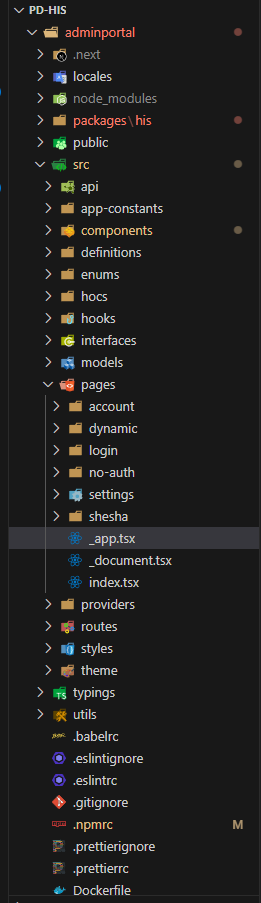
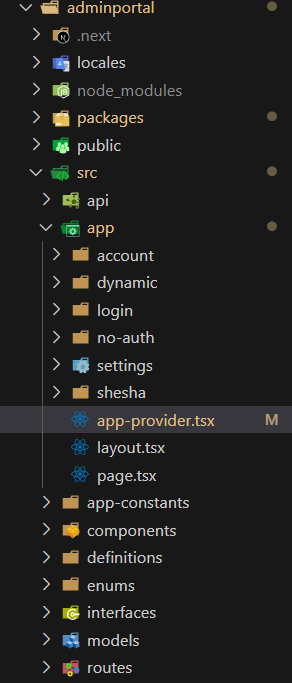
refactor: custom-components modified

diff --git a/docs/front-end-basics/how-to-guides/custom-components.md b/docs/front-end-basics/how-to-guides/custom-components.md
@@ -1,5 +1,7 @@
 # Custom Components
 
+## Overview
+
 The Shesha Form Builder is a powerful feature that includes a variety of form components to cover a wide range of common scenarios. However, given the diversity of use cases, it's not feasible to address all of them. Therefore, Shesha provides an option to develop custom components for any unique requirements. These custom components can be seamlessly integrated withing the Form Builder, enabling you to easily add them to any form through the drag-and-drop interface.
 
 ## Background
@@ -10,6 +12,37 @@ Before diving into the code, we need to briefly mention a few topic areas.
 
   ![Image](./images/figure1.png)
   ![Image](./images/figure2.png)
+
+``` ts
+{
+  "components": [
+    {
+      "id": "LAuoz8VcEzPdMTc5zFK-n",
+      "type": "rate",
+      "propertyName": "ratings",
+      "componentName": "ratings",
+      "label": "Ratings",
+      "labelAlign": "right",
+      "parentId": "root",
+      "hidden": false,
+      "isDynamic": false,
+      "version": 1,
+      "count": 8,
+      "settingsValidationErrors": []
+    }
+  ],
+  "formSettings": {
+    "layout": "horizontal",
+    "colon": true,
+    "labelCol": {
+      "span": 6
+    },
+    "wrapperCol": {
+      "span": 18
+    }
+  }
+}
+```
 
 > **NOTE**: It is important to note that in the JSON schema in the above image, two properties are depicted (`components`, `formSettings`). Also take note that the components property is an `array` and if we had more than one component in the UI form it would be shown in this array.
 
@@ -23,9 +56,29 @@ Before diving into the code, we need to briefly mention a few topic areas.
   _Above image shows the `packages` folder in the root of the `adminportal` directory_
 
 - Inside the `packages` directory we can see that only one module exists, namely the `his` module.
-- The `index.ts` file inside of the `src` folder is the entry point to the packaged modules, meaning that whatever is exposed here can be imported from this module.
+- The `hisApplicationPlugin.tsx` file inside of the `src/providers` folder is where components are exposed. `HisApplicationPlugin` will need to be wrapped around the main application's provider.
 
   ![Image](./images/figure4.png)
+
+``` ts
+import React, { FC, PropsWithChildren, useEffect } from 'react';
+import { useSheshaApplication } from '@shesha-io/reactjs';
+import { allComponents } from '@/designer';
+
+export interface HisApplicationPluginProps {}
+
+export const HIS_PLUGIN_NAME = 'His-Plugnin';
+
+export const HisApplicationPlugin: FC<PropsWithChildren<HisApplicationPluginProps>> = ({ children }) => {
+  const { registerFormDesignerComponents } = useSheshaApplication();
+
+  useEffect(() => {
+    registerFormDesignerComponents(HIS_PLUGIN_NAME, allComponents);
+  }, []);
+
+  return <>{children}</>;
+};
+```
 
 - By opening the `allComponents` file as shown in the image below, we can see the list of exposed components to the Shesha Form Builder.
   <!-- figure 5 -->
@@ -40,6 +93,31 @@ Before diving into the code, we need to briefly mention a few topic areas.
   <!-- figure 5 -->
   ![Image](./images/figure5.png)
 
+``` ts
+import { IToolboxComponentGroup } from '@shesha-io/reactjs';
+import CalendarComponent from 'components/global/bookingCalendar/formComponent';
+import FacilityContextPickerComponent from 'components/global/facilityContextPicker/formComponent';
+import StatsListComponent from 'components/global/statsList/formComponent';
+import TableFormComponent from 'components/global/tableBuilder/formComponent';
+import UrinalysisComponent from 'components/global/urinalysis';
+import SampleComponent from 'components/global/urinalysis';
+
+export const allComponents: IToolboxComponentGroup[] = [
+  {
+    name: 'HIS Components',
+    components: [
+      CalendarComponent,
+      FacilityContextPickerComponent,
+      StatsListComponent,
+      TableFormComponent,
+      UrinalysisComponent,
+      SampleComponent,
+    ],
+    visible: true,
+  },
+];
+```
+
 _The square bracket after the interface means it is an array of the [IToolboxComponentGroup](https://github.com/shesha-io/shesha-framework/blob/d4959da52f3285067f3269d7f9a14a0259281afb/shesha-reactjs/src/interfaces/formDesigner.ts) interface._
 
 ## Implementation
@@ -48,6 +126,55 @@ _The square bracket after the interface means it is an array of the [IToolboxCom
   <!-- figure 6 -->
 
   ![Image](./images/figure6.png)
+
+``` ts
+import { DingtalkOutlined } from '@ant-design/icons';
+import {
+  ComponentFactoryArguements,
+  ConfigurableFormItem,
+  IToolboxComponent,
+  validateConfigurableComponentSettings,
+} from '@shesha-io/reactjs';
+import React from 'react';
+import { settingsForm } from './settings';
+
+const SampleComponent: IToolboxComponent<ISampleComponentProps> = {
+  type: 'sampleComponent',
+  name: 'Sample Component',
+  icon: <DingtalkOutlined />,
+  Factory: ({ model }: ComponentFactoryArguements<ISampleComponentProps>) => {
+    const style = {
+      height: model.height,
+      width: model.width,
+      border: model.hasBorder ? '1px solid black' : 'none'
+    };
+
+    const onMouseMove = (event: MouseEvent, onChange: Function) => {
+      onChange({ x: event.movementx, y: event.movementy });
+    };
+
+    return (
+      <ConfigurableFormItem model={model}>
+        {(value, onChange) => (
+          <div style={style} onMouseMove={(e: any) => onMouseMove(e, onChange)}>
+            <div>{model.title}</div>
+            <span>X: {value?.x}</span>
+            <span>Y: {value?.y}</span>
+          </div>
+        )}
+      </ConfigurableFormItem>
+    );
+  },
+  initModel: (model) => ({
+    ...model,
+    hasBorder: true,
+  }),
+  settingsFormMarkup: settingsForm,
+  validateSettings: (model) => validateConfigurableComponentSettings(settingsForm, model),
+};
+
+export default SampleComponent;
+```
 
 - `SampleComponent` is an object which implements the [IToolboxComponent](https://github.com/shesha-io/shesha-framework/blob/d4959da52f3285067f3269d7f9a14a0259281afb/shesha-reactjs/src/interfaces/formDesigner.ts) interface, this is to ensure consistency.
 
@@ -74,6 +201,68 @@ _The square bracket after the interface means it is an array of the [IToolboxCom
   <!-- figure 8 -->
 
   ![Image](./images/figure8.png)
+
+``` ts
+import { DesignerToolbarSettings } from '@shesha-io/reactjs';
+import { nanoid } from 'nanoid';
+
+export const settingsForm = new DesignerToolbarSettings()
+  .addSectionSeparator({
+    id: nanoid(),
+    propertyName: 'separatorl',
+    parentld: 'root',
+    label: 'Display',
+  })
+  .addContextPropertyAutocomplete({
+    id: nanoid(),
+    propertyName: 'propertyName',
+    parentld: 'root',
+    label: 'Property name',
+    validate: {
+      required: true,
+    },
+  })
+  .addTextField({
+    id: nanoid(),
+    propertyName: 'title',
+    parentld: 'root',
+    label: 'Title',
+  })
+  .addCheckbox({
+    id: nanoid(),
+    propertyName: 'hideLabel',
+    parentld: 'root',
+    label: 'Hide Label',
+  })
+  .addNumberField({
+    id: nanoid(),
+    propertyName: 'height',
+    parentld: 'root',
+    description: 'This property determines the height of the selector in question.',
+    label: "Selector's Height",
+    validate: {
+      required: true,
+    },
+  })
+  .addNumberField({
+    id: nanoid(),
+    propertyName: 'width',
+    parentld: 'root',
+    description: 'This property determines the width of the selector in question.',
+    label: "Selector's Width",
+    validate: {
+      required: true,
+    },
+  })
+  .addCheckbox({
+    id: nanoid(),
+    propertyName: 'hasBorder',
+    parentld: 'root',
+    label: 'Has Border',
+  })
+  .tolson();
+```
+
   <!-- figure 9 -->
 
   ![Image](./images/figure9.png)
@@ -122,6 +311,17 @@ _shown on lines 10, 40, 41_
 
   ![Image](./images/figure10.png)
 
+``` ts
+import { IConfigurableFormComponent } from '@shesha-io/reactjs';
+
+export interface ISampleComponentProps extends IConfigurableFormComponent {
+  title: string;
+  height: string;
+  width: string;
+  hasBorder: boolean;
+}
+```
+
 Rending of the `factory` property includes the `ConfigurableFormItem` component as the top parent, this is not mandatory only but done as preference. The children of `ConfigurableFormItem` return a function of parameters `value` and `onChange`. value is the current value of the active component, `onChange` is the event which will trigger the value to change
 
   <!-- figure 6 -->
@@ -159,15 +359,57 @@ _See working example below_
 
 ## Exposing Component
 
-- Navigate to the `app.tsx` file from the root directory of the `adminportal` directory. `src` > `pages` > `app.tsx`
+- Navigate to the `app-provider.tsx` file from the root directory of the `adminportal` directory. `src` > `app` > `app-provider.tsx`
   <!-- figure 11 -->
 
   ![Image](./images/figure11.png)
 
-- This file includes the Shesha [providers](https://react-redux.js.org/api/provider) which are responsible for the majority functionality on the Shesha Builder.
-- Import allComponents from the relevant modules
-  <!-- figure 7 -->
+- The `HisApplicationPlugin` is wrapped around the main application's provider as seen in the illustration below. Simply import the hook and wrap it around the `ShaApplicationProvider`.
 
-  ![Image](./images/figure7.png)
+  <!-- figure 13 -->
 
-- Remember that `allComponents` is an array, either spread the values to a variable or pass it to the `toolboxComponentGroups` on the `ShaApplicationProvider`
+  ![Image](./images/figure13.png)
+
+``` ts
+"use client";
+
+import React, { FC, PropsWithChildren } from "react";
+import {
+  GlobalStateProvider,
+  ShaApplicationProvider,
+  StoredFilesProvider,
+  useNextRouter,
+} from "@shesha-io/reactjs";
+import { HisApplicationPlugin } from "@shesha-io/pd-publicportal";
+import { AppProgressBar } from "next-nprogress-bar";
+import { useTheme } from "antd-style";
+
+export interface IAppProviderProps {
+  backendUrl: string;
+}
+
+export const AppProvider: FC<PropsWithChildren<IAppProviderProps>> = ({
+  children,
+  backendUrl,
+}) => {
+  const nextRouter = useNextRouter();
+  const theme = useTheme();
+
+  return (
+    <GlobalStateProvider>
+      <AppProgressBar height="4px" color={theme.colorPrimary} shallowRouting />
+      <ShaApplicationProvider
+        backendUrl={backendUrl}
+        router={nextRouter}
+        noAuth={nextRouter.path?.includes("/no-auth")}
+      >
+        <HisApplicationPlugin>
+          <StoredFilesProvider baseUrl={backendUrl} ownerId={""} ownerType={""}>
+            {children}
+          </StoredFilesProvider>
+        </HisApplicationPlugin>
+      </ShaApplicationProvider>
+    </GlobalStateProvider>
+  );
+};
+```
